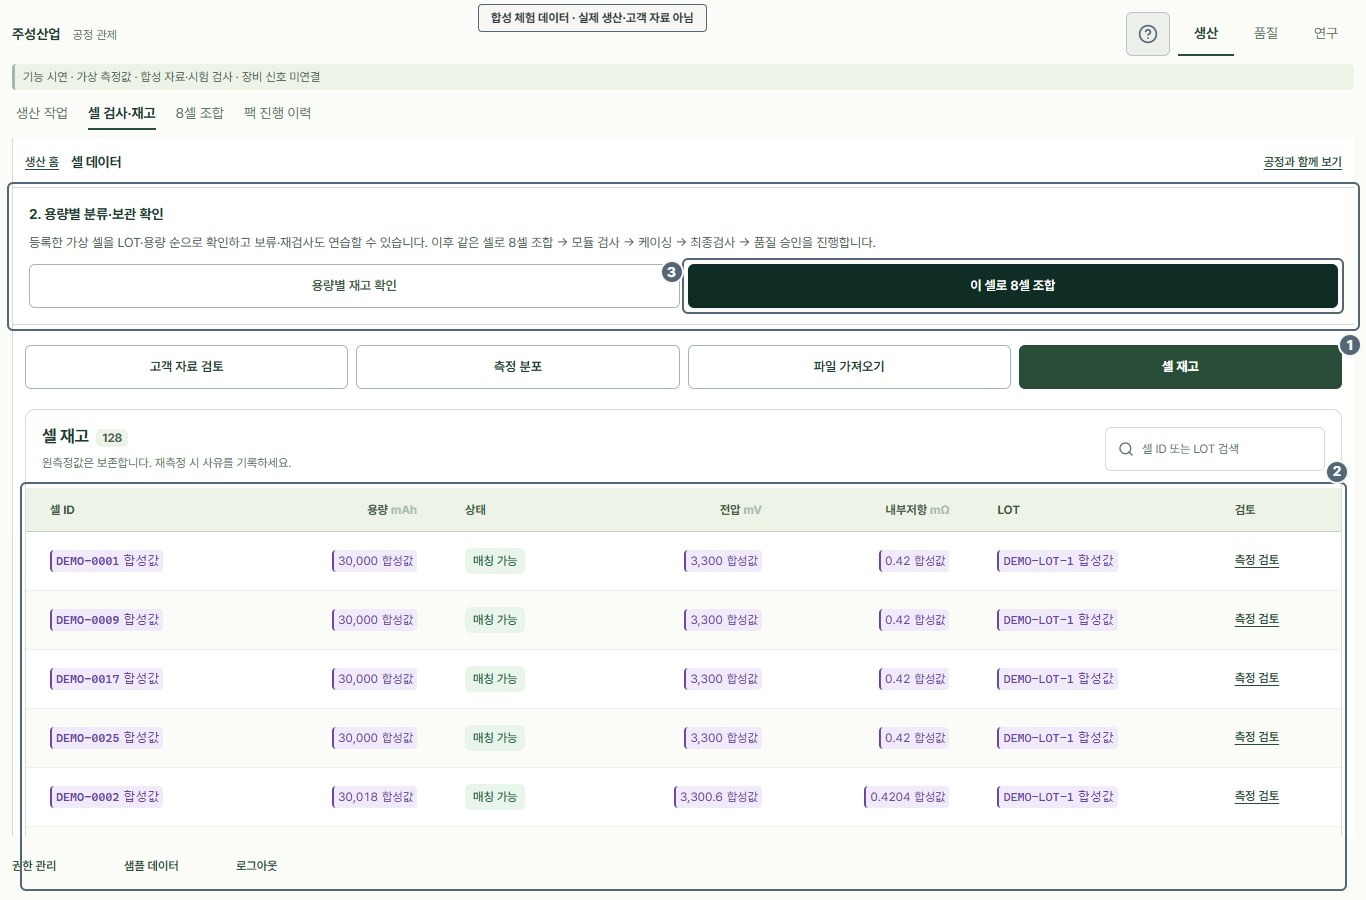
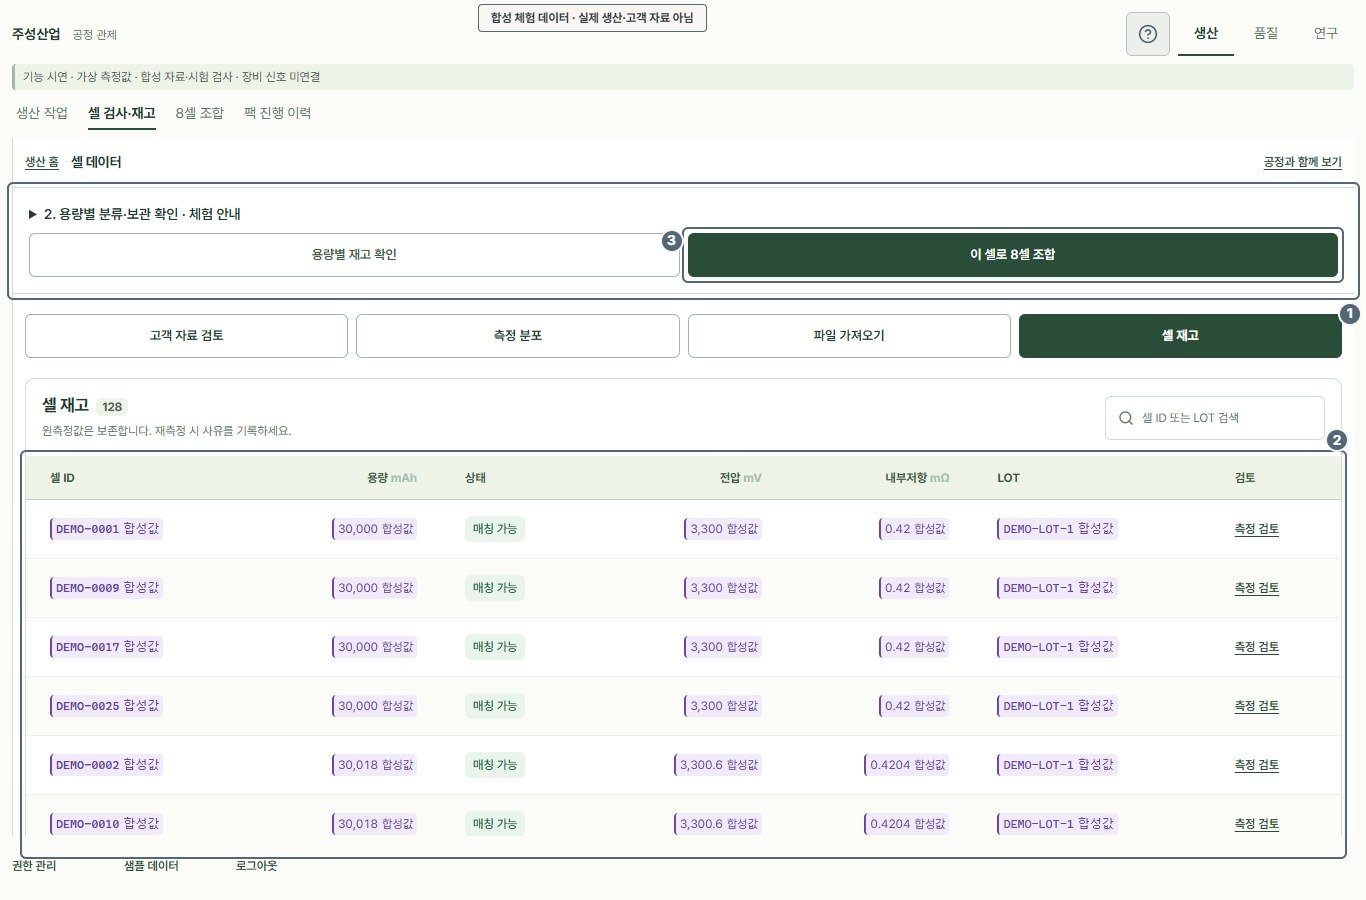
Keep completed demo instructions out of inventory workflow

Changed region(s): [[0.0, 0.2178, 1.0, 0.9333]]

diff --git a/src/manual/content.ts b/src/manual/content.ts
@@ -4,7 +4,7 @@ export const manualVersion='2026-10-18';
 export const scenarios:ManualScenario[]=[
  {id:'access',title:'로그인·사용 권한 신청',role:'전체 직원',start:'회사에서 사용할 이메일 계정을 준비합니다.',steps:[{title:'가입 신청',body:'처음 방문했다면 사용 권한 신청에서 이름·이메일·비밀번호를 입력합니다. 이메일 인증이 요청되면 완료하세요.',target:'.auth-switch'},{title:'관리자 승인 후 로그인',body:'가입 접수와 사용 승인은 별개입니다. 승인 대기라면 관리자에게 계정 승인을 요청합니다.',target:'.auth-form form'},{title:'체험 데이터 구분',body:'가상 데이터로 공정 체험은 생산 작업에서 전체 공정을 보여줍니다. 측정 파일 등록 시작 또는 셀 검사·재고를 선택해 등록을 진행합니다. 예시 셀로 다음 단계를 누르면 가상 셀 128개로 재고 확인부터 진행합니다. 고객 실측 자료는 로그인 후 별도로 확인합니다.',target:'.auth-form .secondary'}],criteria:'가입 승인, 공정 담당 배정, 최종 품질 승인권은 서로 다릅니다.',exception:'로그인 실패 시 이메일과 비밀번호를 확인하세요. 승인 대기·이용 중지는 관리자에게 문의합니다.',done:'승인된 역할로 생산·품질·연구 작업 화면에 진입합니다.'},
  {id:'field',title:'생산·담당 작업 확인',role:'공정별 담당자',start:'생산 작업에서 전체 공정과 다음 업무를 확인합니다. 빈 재고라면 측정 파일 등록 시작을 선택하세요. 실제 기록은 배정된 담당 권한으로 처리합니다.',steps:[{title:'판단할 팩 확인',body:'팩 번호 찾기로 작업 대상을 찾고, 처리 사유와 필수 공정의 검사 상태를 함께 봅니다. 목록은 선택한 공정의 기록 상태를 기준으로 구성되고 실행 가능한 업무는 담당 권한에 따라 달라집니다.',target:'.console-target'},{title:'다음 업무 수행',body:'검사가 필요하면 검사 확인·기록, 모듈 검사·케이싱·최종검사가 완료되면 품질 검토 요청으로 이어갑니다. 표시만으로 처리되지는 않습니다.',target:'.console-target-action'},{title:'대상 또는 공정 전환',body:'3D 현장에서 공정을 선택하거나 팩 번호로 작업물을 찾습니다. 생산·품질 전환 시 선택한 공정과 팩이 유지됩니다.',target:'.scene-annotations, .floor-pack-list'}],criteria:'불합격·미완료 항목과 현재 팩 번호를 먼저 확인합니다. 검사 확인은 최종 품질 승인이 아닙니다.',exception:'대상이 없으면 담당 공정과 준비된 팩을 확인하세요. 선택한 대상의 상태가 바뀌면 다음 판단 대상을 명시적으로 선택합니다.',done:'해당 팩의 검사 또는 검토 요청으로 연결됩니다.'},
- {id:'cells',title:'측정 데이터 등록·결측 검토',role:'셀 등록·매칭 담당자',start:'원본 파일과 측정 단위·출처를 준비합니다. 고객 자료는 공개 체험에 넣지 않습니다.',steps:[{title:'공정 체험 시작',body:'가상 측정 파일을 받아 파일 가져오기로 등록하세요. 용량 누락 오류 파일은 등록 차단을 연습합니다. 예시 셀로 다음 단계는 파일 등록을 생략하고 가상 셀 128개의 재고 확인으로 이어집니다.',target:'.demo-process-guide'},{title:'등록 경로 선택',body:'완전한 표준 측정값은 파일 가져오기, 고객 양식이나 결측 자료는 고객 자료 검토를 선택합니다.',target:'.visible-task-tabs'},{title:'원본·검증 결과 확인',body:'파일에서 읽은 항목, 단위, 중복·결측·오류를 확인합니다. 내부저항은 선택 참고값이며, SOP v2는 용량·전압을 판정합니다.',target:'.evidence-workspace, .upload-callout, .modal'},{title:'유효 셀 전달',body:'출처를 확인하고 저장합니다. 셀 재고에서 유효·보류 상태를 확인한 후 사용할 셀을 매칭으로 전달합니다.',target:'.demo-process-guide, .workflow-continuation, .table-wrap'}],criteria:'원측정값을 임의 보완하지 않습니다. 보류·결측 셀은 유효 셀과 구분합니다.',exception:'표준 형식이 아닌 파일은 ‘고객 자료 검토’에 등록하세요. 재측정 시 사유를 남기세요.',done:'유효 데이터가 저장되고 셀 식별자·출처를 추적할 수 있습니다.'},
+ {id:'cells',title:'측정 데이터 등록·결측 검토',role:'셀 등록·매칭 담당자',start:'원본 파일과 측정 단위·출처를 준비합니다. 고객 자료는 공개 체험에 넣지 않습니다.',steps:[{title:'공정 체험 시작',body:'가상 측정 파일을 받아 파일 가져오기로 등록하세요. 용량 누락 오류 파일은 등록 차단을 연습합니다. 예시 셀로 다음 단계는 파일 등록을 생략하고 가상 셀 128개의 재고 확인으로 이어집니다. 등록 후 체험 설명은 접혀 있으며 제목을 눌러 다시 볼 수 있습니다. 재고 확인·8셀 조합 버튼은 계속 표시됩니다.',target:'.demo-process-guide'},{title:'등록 경로 선택',body:'완전한 표준 측정값은 파일 가져오기, 고객 양식이나 결측 자료는 고객 자료 검토를 선택합니다.',target:'.visible-task-tabs'},{title:'원본·검증 결과 확인',body:'파일에서 읽은 항목, 단위, 중복·결측·오류를 확인합니다. 내부저항은 선택 참고값이며, SOP v2는 용량·전압을 판정합니다.',target:'.evidence-workspace, .upload-callout, .modal'},{title:'유효 셀 전달',body:'출처를 확인하고 저장합니다. 셀 재고에서 유효·보류 상태를 확인한 후 사용할 셀을 매칭으로 전달합니다.',target:'.demo-process-guide, .workflow-continuation, .table-wrap'}],criteria:'원측정값을 임의 보완하지 않습니다. 보류·결측 셀은 유효 셀과 구분합니다.',exception:'표준 형식이 아닌 파일은 ‘고객 자료 검토’에 등록하세요. 재측정 시 사유를 남기세요.',done:'유효 데이터가 저장되고 셀 식별자·출처를 추적할 수 있습니다.'},
  {id:'matching',title:'셀 매칭·조합 검토·팩 구성',role:'셀 등록·매칭 담당자',start:'매칭 가능한 셀 8개 이상과 대상 LOT를 준비합니다.',steps:[{title:'대상과 수량 선택',body:'LOT와 추천 팩 수를 확인하고 조합 추천을 실행합니다. 한 번에 최대 500개 셀을 탐색합니다.',target:'.match-settings'},{title:'SOP와 추천 근거 비교',body:'AO열 방전용량·전압 편차와 구성 셀을 검토합니다. 통과 팩 수가 우선입니다. 균일도 점수는 불량 확률이 아닙니다.',target:'.candidate:has(.spread-grid), .sop-strip'},{title:'팩 구성',body:'조합 검토·확정에서 팩 일련번호와 검토 사유를 기록합니다. 확정 후 같은 팩의 검사로 이어갑니다.',target:'.modal, .candidate-footer, .workflow-continuation'}],criteria:'기준은 8셀의 전압 차 ≤10mV, 용량 차 ≤500mAh입니다. SOP 버전과 측정 조건을 확인합니다.',exception:'추천이 없으면 셀 수·결측·기준 이탈과 탐색 결과를 확인합니다. 후보가 없다는 결과만으로 수학적 조합 불가능을 뜻하지 않습니다.',done:'검토한 8개 셀이 팩 ID에 연결되고 처리 이력이 남습니다.'},
  {id:'inspection',title:'현장 검사·재검사 기록',role:'모듈 검사·케이싱·최종검사 담당자',start:'검사할 팩과 해당 공정의 검사 근거를 준비합니다.',steps:[{title:'팩과 검사 구분 확인',body:'현재 팩 번호를 확인하세요. 미완료 또는 불합격 공정이 기본 선택되지만 실제 기록할 공정과 일치하는지 직접 확인합니다.',targets:['.console-confirmation > strong', '.console-confirmation [aria-label="검사 구분"]']},{title:'실측·시험 및 판정 구분',body:'실운영에서는 실측·시험 근거를 직접 선택하고, 검사 결과에 따라 합격·불합격을 선택합니다. 미판정 상태에서는 다음 단계로 진행할 수 없습니다.',targets:['.console-confirmation [aria-label="현장 검사 근거"]', '.console-confirmation [aria-label="검사 구분"]', '.console-confirmation [aria-label="판정"]']},{title:'메모와 저장',body:'검사 메모·저장으로 이동해 조건과 관찰 내용을 남기고 저장합니다. 닫기는 저장하지 않고 입력을 끝냅니다.',targets:['.console-confirmation textarea', '.console-confirmation .console-pager']}],criteria:'시험 입력을 실측 성과로 기록하지 않습니다. 재검사 후 최신 결과와 이전 이력은 구분됩니다.',exception:'저장 실패 시 입력은 유지됩니다. 연결 상태를 확인하고 재시도하세요. 담당 권한이 없으면 관리자에게 공정 배정을 요청합니다.',done:'같은 팩의 검사 상태가 갱신됩니다. 필수 공정 확인 완료 후 품질 검토 요청으로 이어집니다.'},
  {id:'packs',title:'팩 품질이력·누락 추적',role:'공정 담당자·승인권자·조회자',start:'팩 번호 또는 확인할 품질 상태를 정합니다.',steps:[{title:'범위와 상태 확인',body:'전체 팩은 생산·품질에서 조회할 수 있습니다. 불합격·미연결·기존 에이징 기록은 품질에서 확인하세요. 공정 순서의 업무 표시로 담당 범위를 확인합니다.',target:'.workflow-filter'},{title:'팩 찾기',body:'팩 일련번호로 검색하거나 페이지를 전환합니다. 전체 팩 보기는 상태 필터를 해제합니다.',target:'.search, .table-wrap'},{title:'근거와 이력 조회',body:'상세 조회에서 구성 셀, SOP, 검사 기록과 검토 근거를 확인합니다. 검사 기록은 현장과 같은 판정·메모 순서로 입력하며, 저장 후 다음 기록은 판정을 다시 선택합니다.',target:'.modal, .table-wrap'}],criteria:'8셀 구성, 모듈 검사, 케이싱, 최종검사 연결 여부를 함께 확인합니다. 검사 연결 완료가 품질 승인 완료를 뜻하지 않습니다.',exception:'찾는 팩이 없으면 검색어와 집계 범위·필터를 확인하세요. 이력이 부족하면 해당 공정 담당자에게 확인합니다.',done:'누락 또는 불합격의 근거를 찾고 해당 팩의 다음 업무로 연결합니다.'},

diff --git a/src/Workbench.tsx b/src/Workbench.tsx
@@ -147,7 +147,7 @@ export default function Workbench({ session, demo, onLeave, onPrivateDemo, priva
     if(demoFromFile)filtered.sort((a,b)=>a.lot.localeCompare(b.lot)||a.capacity_mah-b.capacity_mah);
     const chart = cells.slice(0, 48).map((c, i) => ({ name: i + 1, capacity: c.capacity_mah }));
     return <div className="app-shell console-shell"><OperationsConsole taskActions={tab==='twin'?<><div className="mode-switch" aria-label="공정 설계 작업"><button aria-pressed={designMode==='design'} className={designMode==='design'?'active':''} onClick={()=>setDesignMode('design')} title="장비·작업 순서와 확보 데이터를 설계합니다">공정 설계 · 데이터 확보</button><button aria-pressed={designMode==='simulation'} className={designMode==='simulation'?'active':''} onClick={()=>setDesignMode('simulation')} title="목표 수량의 완료시간·대기·병목을 비교합니다">시뮬레이션 · 작업 효율</button></div><button className="secondary" onClick={()=>openApproval('',approvalTarget.requestId)}>공정 승인함</button></>:undefined} processDesign={processDesign.design} processDesignError={processDesign.error} focusedPackId={continuation?.kind==='pack'?continuation.packId:undefined} onOpenPack={pack=>openPacks('all',pack)} sampleView={sampleOpen?<SampleDataView dataset={privateDemo?.dataset} cells={cells} onClose={()=>setSampleOpen(false)}/>:undefined} onSampleData={demo?()=>setSampleOpen(true):undefined} onPrivateDemo={onPrivateDemo} privateDemo={!!privateDemo} demoLabel={demoFromFile?'기능 시연 · 가상 측정값':privateDemo?(privateDemo.mode==='workflow'?'고객 제공값 + 시험 보완값 · 시험 결과':'고객 제공 원자료 · 결측 유지'):undefined} metricScope={metricScope} onMetricScope={setMetricScope} dataFocus={reviewBatch || reviewSeed || privateDemo?.mode==='raw' ? '고객 자료 검토' : privateDemo||demoFromFile&&demoInventory?'셀 재고':undefined} active task={tab} taskTitle={tab==='packs'?(workMode==='field'?'팩 진행 이력':'검사·조치 이력'):names[tab]} onLogout={leave} onReport={exportReport} key={activeProfile!.id} mode={workMode} onMode={switchWorkMode} profile={activeProfile!} demo={demo} packs={packs} tests={tests} requests={qualityIndex.rows} cells={cells.length} available={available.length} lastSync={lastSync} syncError={syncError} approvalError={qualityIndex.error} onPacks={(filter,scope)=>openPacks(filter,undefined,scope)} onOpen={setTab} onWork={openWork} onRecord={(pack,kind,result,note,resultKind)=>recordInspection(pack,kind,result,note,resultKind,false)}>
-  {demoFromFile&&tab==='cells'&&<section className="demo-process-guide" data-shared aria-label="전체 공정 체험 안내"><strong>{cells.length?'2. 용량별 분류·보관 확인':'1. 충방전 측정 파일 등록'}</strong><p>{cells.length?'등록한 가상 셀을 LOT·용량 순으로 확인하고 보류·재검사도 연습할 수 있습니다. 이후 같은 셀로 8셀 조합 → 모듈 검사 → 케이싱 → 최종검사 → 품질 승인을 진행합니다.':'가상 파일을 내려받아 아래 파일 가져오기로 선택하세요. 미리보기에서 검증 후 등록합니다. 파일 등록을 생략하려면 예시 셀로 다음 단계를 진행하세요.'}</p><div className="workflow-actions">{!cells.length?<><button className="secondary" onClick={()=>downloadDemoMeasurements()}>가상 측정 파일 받기</button><button className="secondary" onClick={()=>downloadDemoMeasurements(true)}>용량 누락 오류 파일 받기</button><button className="text-button" onClick={()=>{setCells(sampleCells());setReviewSeed(undefined);setReviewBatch(undefined);setDemoInventory(true);}}>예시 셀로 다음 단계</button></>:<><button className="secondary" onClick={()=>{setReviewSeed(undefined);setReviewBatch(undefined);setDemoInventory(true);}}>용량별 재고 확인</button><button className="primary" onClick={()=>setTab('matching')}>이 셀로 8셀 조합</button></>}</div></section>}
+  {demoFromFile&&tab==='cells'&&<section className="demo-process-guide" data-shared aria-label="전체 공정 체험 안내">{cells.length?<details className="demo-next-guide"><summary>2. 용량별 분류·보관 확인 · 체험 안내</summary><p>LOT·용량을 확인하고 보류·재검사를 연습하세요. 다음은 8셀 조합 → 모듈 검사 → 케이싱 → 최종검사 → 품질 승인입니다.</p></details>:<><strong>1. 충방전 측정 파일 등록</strong><p>가상 파일을 내려받아 아래 파일 가져오기로 선택하세요. 미리보기에서 검증 후 등록합니다. 파일 등록을 생략하려면 예시 셀로 다음 단계를 진행하세요.</p></>}<div className="workflow-actions">{!cells.length?<><button className="secondary" onClick={()=>downloadDemoMeasurements()}>가상 측정 파일 받기</button><button className="secondary" onClick={()=>downloadDemoMeasurements(true)}>용량 누락 오류 파일 받기</button><button className="text-button" onClick={()=>{setCells(sampleCells());setReviewSeed(undefined);setReviewBatch(undefined);setDemoInventory(true);}}>예시 셀로 다음 단계</button></>:<><button className="secondary" onClick={()=>{setReviewSeed(undefined);setReviewBatch(undefined);setDemoInventory(true);}}>용량별 재고 확인</button><button className="primary" onClick={()=>setTab('matching')}>이 셀로 8셀 조합</button></>}</div></section>}
   {continuation && !(demoFromFile&&continuation.kind==='cells') && (tab === 'cells' || tab === 'matching') && <section className="panel workflow-continuation" role="status"><div><strong>{continuation.kind === 'cells' ? '측정 데이터 준비 완료' : '셀 조합 확정 완료'}</strong><p>{continuation.kind === 'cells' ? '이 측정값으로 조합 후보를 비교할 수 있습니다.' : '다음은 같은 팩의 검사 결과를 연결하는 단계입니다.'}</p></div><button className="primary" onClick={() => { if (continuation.kind === 'cells')
         setTab('matching');
     else {

diff --git a/tests/role-usability.spec.ts b/tests/role-usability.spec.ts
@@ -19,6 +19,7 @@ test('production operator and quality reviewer complete the same pack',async({pa
   else {await expect(dialog).toContainText('형식 검증 완료');await expect(dialog.getByRole('radio',{name:'실측 자료',exact:true})).toBeDisabled();await dialog.getByRole('button',{name:'전체 128개 등록',exact:true}).click();}
  }
  await page.getByRole('button',{name:'용량별 재고 확인',exact:true}).click();await expect(page.getByRole('heading',{name:'셀 재고 128',exact:true})).toBeVisible();await expect(page.getByRole('cell',{name:'DEMO-0001 합성값',exact:true})).toBeVisible();
+ const guide=page.getByRole('region',{name:'전체 공정 체험 안내'});await expect(guide.locator('.demo-next-guide')).not.toHaveAttribute('open','');await guide.locator('summary').click();await expect(guide.getByText('LOT·용량을 확인하고 보류·재검사를 연습하세요.',{exact:false})).toBeVisible();await guide.locator('summary').click();await expect(guide.getByRole('button',{name:'이 셀로 8셀 조합',exact:true})).toBeInViewport({ratio:1});
  await expect(page.locator('.cell-inventory tbody tr')).toHaveCount(6);expect(await page.locator('.cell-inventory').evaluate(e=>e.scrollWidth<=e.clientWidth)).toBe(true);await page.screenshot({path:`test-results/role-production-${width}.png`});
  await page.getByRole('row').filter({hasText:'DEMO-0001'}).getByRole('button',{name:'측정 검토',exact:true}).click();
  await page.getByRole('button',{name:'측정 검토',exact:true}).first().click();await page.getByLabel('처리 사유',{exact:true}).fill('가상 셀 보류 시연');await page.getByRole('button',{name:'셀 보류',exact:true}).click();

diff --git a/src/console.css b/src/console.css
@@ -909,3 +909,6 @@
  .console-task-view:has(.console-task-tools) > .console-task-heading { flex: none; }
  .console-task-view:has(.console-task-tools) > .console-task-body { flex: none; height: var(--size-designer-min-height); }
 }
+
+.demo-next-guide {margin-bottom:var(--space-8)}
+.demo-next-guide summary {font-weight:var(--weight-semibold)}
